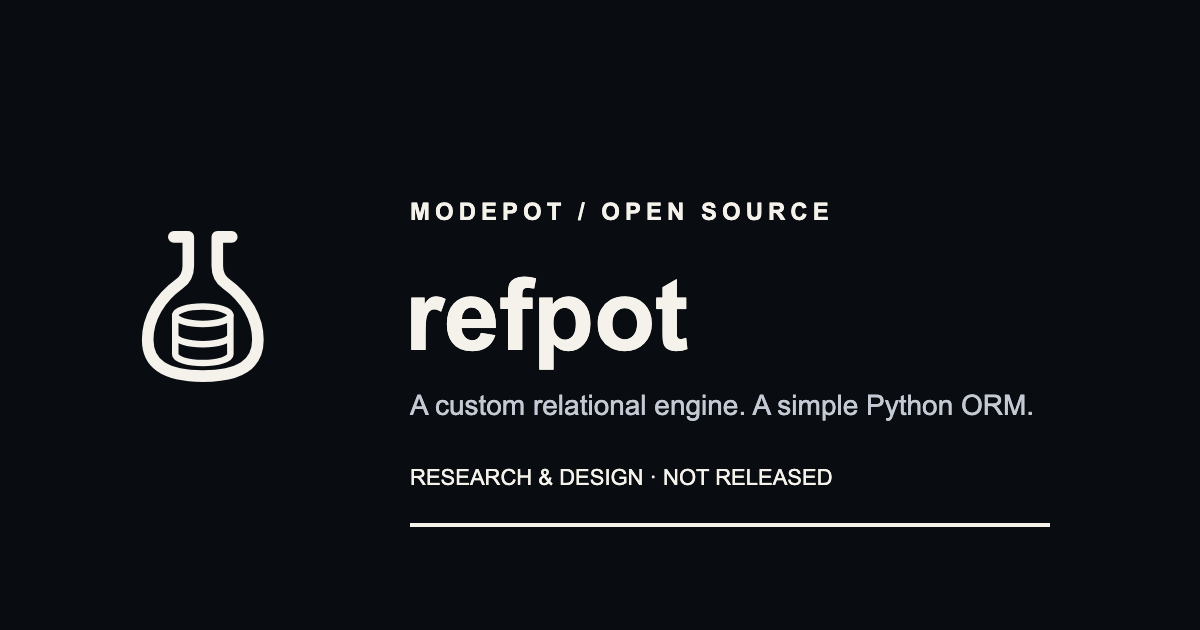
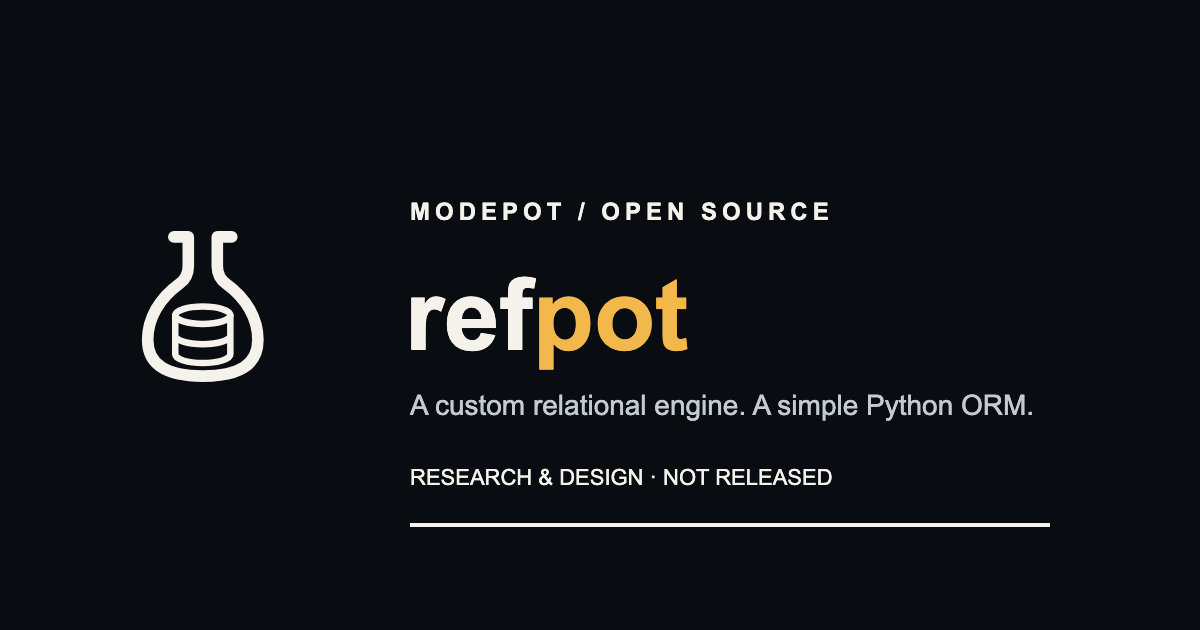
fix: restore the orange pot wordmark suffix (#24)

Changed region(s): [[0.4317, 0.4524, 0.5858, 0.6032]]

diff --git a/website/tests/browser/site.spec.ts b/website/tests/browser/site.spec.ts
@@ -40,6 +40,9 @@ for (const width of [1280, 768, 390, 320]) {
         return { overflow:document.documentElement.scrollWidth>innerWidth, copy:{left:copy.left,right:copy.right,top:copy.top,bottom:copy.bottom}, art:{left:art.left,top:art.top}, creatorTop:creator.top, creatorBottom:creator.bottom, actionsBottom:actions.bottom };
       });
       const isDark = theme === 'dark';
+      await expect(page.locator('header .site-title')).toHaveText('RefPot');
+      await expect(page.locator('header .site-title')).toHaveAttribute('href', '/');
+      await expect(page.locator('header .wordmark-pot')).toHaveCSS('color', isDark ? 'rgb(242, 184, 75)' : 'rgb(135, 80, 0)');
       await expect(page.locator('header .refpot-mark')).toHaveCSS('filter', isDark ? 'none' : 'brightness(0.31)');
       await expect(page.locator('.framework-action.primary')).toHaveCSS('color', isDark ? 'rgb(24, 26, 29)' : 'rgb(255, 255, 255)');
       await expect(page.locator('.framework-action.primary')).toHaveCSS('background-color', isDark ? 'rgb(244, 242, 234)' : 'rgb(73, 81, 94)');
@@ -164,7 +167,7 @@ test('Auto follows live OS changes, metadata and the social raster are real',asy
   await expect(page.locator('link[rel="canonical"]')).toHaveAttribute('href','https://refpot.modepot.io/');
   const data=JSON.parse(await page.locator('script[type="application/ld+json"]').innerText());
   expect(data['@graph'].map((item:{'@type':string})=>item['@type'])).toEqual(['SoftwareSourceCode','WebSite']);
-  const image=await page.request.get('/social-card.png?v=offwhite-1'); expect(image.status()).toBe(200);
+  const image=await page.request.get('/social-card.png?v=wordmark-2'); expect(image.status()).toBe(200);
   const bytes=await image.body(); expect([bytes.readUInt32BE(16),bytes.readUInt32BE(20)]).toEqual([1200,630]);
 });
 

diff --git a/tests/test_presentation.py b/tests/test_presentation.py
@@ -4,6 +4,7 @@ import re
 import unittest
 import xml.etree.ElementTree as ET
 from pathlib import Path
+from urllib.parse import urlsplit
 
 ROOT = Path(__file__).resolve().parents[1]
 FAMILY_FLASK = (
@@ -14,6 +15,26 @@ FAMILY_FLASK = (
 
 
 class PresentationTests(unittest.TestCase):
+    def test_wordmark_name_is_white_and_pot_is_orange(self):
+        for path in (
+            "docs/assets/refpot-lockup.svg",
+            "website/public/refpot-lockup.svg",
+            "website/public/social-card.svg",
+        ):
+            root = ET.parse(ROOT / path).getroot()
+            wordmark = next(
+                n
+                for n in root.iter()
+                if n.tag.endswith("}text") and "".join(n.itertext()) == "refpot"
+            )
+            self.assertEqual(wordmark.text, "ref")
+            self.assertEqual(wordmark.attrib["fill"].upper(), "#F4F2EA")
+            suffix = next(iter(wordmark))
+            self.assertEqual(suffix.text, "pot")
+            self.assertEqual(suffix.attrib["fill"], "#F2B84B")
+        header = (ROOT / "website/src/components/FamilyHeader.astro").read_text()
+        self.assertIn('class="wordmark-pot">Pot</span>', header)
+
     def test_refpot_identity_palette_and_canonical_geometry_parity(self):
         sources = [
             ROOT / "docs/assets/refpot-lockup.svg",
@@ -48,7 +69,9 @@ class PresentationTests(unittest.TestCase):
         self.assertEqual(svg.attrib["viewBox"], "0 0 1200 900")
         paths = [node.attrib.get("d") for node in svg.iter()]
         self.assertIn(FAMILY_FLASK, paths)
-        text = " ".join(svg.itertext())
+        text = " ".join(
+            "".join(node.itertext()) for node in svg.iter() if node.tag.endswith("}text")
+        )
         for label in (
             "MODEPOT / OPEN SOURCE",
             "refpot",
@@ -179,7 +202,7 @@ class PresentationTests(unittest.TestCase):
             if url.startswith("#"):
                 self.assertIn(url[1:], anchors)
             elif not url.startswith("https://") and not url.startswith("/"):
-                self.assertTrue((ROOT / url).is_file(), url)
+                self.assertTrue((ROOT / urlsplit(url).path).is_file(), url)
 
     def test_static_accessible_svg(self):
         for path in (ROOT / "docs/assets").glob("*.svg"):
@@ -200,13 +223,16 @@ class PresentationTests(unittest.TestCase):
         self.assertNotIn("RELEASE PREPARATION", labels)
         self.assertNotIn("0.1.2", labels)
         transaction_box = next(
-            node for node in package.iter()
-            if node.tag.endswith("rect") and node.attrib.get("x") == "56" and node.attrib.get("y") == "276"
+            node
+            for node in package.iter()
+            if node.tag.endswith("rect")
+            and node.attrib.get("x") == "56"
+            and node.attrib.get("y") == "276"
         )
         self.assertEqual(transaction_box.attrib["stroke"], "#49515e")
         page = (ROOT / "website/src/content/docs/index.mdx").read_text()
-        self.assertIn('/refpot-package.png?v=alpha-implementation-2', page)
-        self.assertIn('/refpot-package.svg?v=alpha-implementation-2', page)
+        self.assertIn("/refpot-package.png?v=alpha-implementation-2", page)
+        self.assertIn("/refpot-package.svg?v=alpha-implementation-2", page)
 
 
 if __name__ == "__main__":

diff --git a/tests/test_doc_parity.py b/tests/test_doc_parity.py
@@ -9,7 +9,7 @@ ROOT = Path(__file__).resolve().parents[1]
 def test_every_readme_supporting_image_has_a_homepage_consumer():
     readme = (ROOT / "README.md").read_text()
     homepage = (ROOT / "website/src/content/docs/index.mdx").read_text()
-    illustrations = re.findall(r'src="docs/assets/(refpot-[^"]+\.png)"', readme)
+    illustrations = re.findall(r'src="docs/assets/(refpot-[^"?]+\.png)(?:\?[^"]*)?"', readme)
     assert set(illustrations) == {
         "refpot-lockup.png",
         "refpot-execution.png",

diff --git a/README.md b/README.md
@@ -1,7 +1,7 @@
 # refpot
 
 <p align="center">
-  <img src="docs/assets/refpot-lockup.png" alt="RefPot — embedded, relational, simple" width="600">
+  <img src="docs/assets/refpot-lockup.png?v=wordmark-2" alt="RefPot — embedded, relational, simple" width="600">
 </p>
 
 <p align="center">Part of <a href="https://modepot.io/">ModePot</a>. &nbsp; <a href="https://refpot.modepot.io/">Project website</a> &nbsp; <a href="https://tugrul.modepot.io/">Created by Tugrul Guner</a></p>

diff --git a/website/public/docs/project-readme.md b/website/public/docs/project-readme.md
@@ -1,7 +1,7 @@
 # refpot
 
 <p align="center">
-  <img src="docs/assets/refpot-lockup.png" alt="RefPot — embedded, relational, simple" width="600">
+  <img src="docs/assets/refpot-lockup.png?v=wordmark-2" alt="RefPot — embedded, relational, simple" width="600">
 </p>
 
 <p align="center">Part of <a href="https://modepot.io/">ModePot</a>. &nbsp; <a href="https://refpot.modepot.io/">Project website</a> &nbsp; <a href="https://tugrul.modepot.io/">Created by Tugrul Guner</a></p>

diff --git a/changelog.d/+wordmark-pot-color.fixed.md b/changelog.d/+wordmark-pot-color.fixed.md
@@ -1,0 +1,1 @@
+Correct the RefPot wordmark to keep the name white and the pot suffix orange across README, website, and social artwork.
